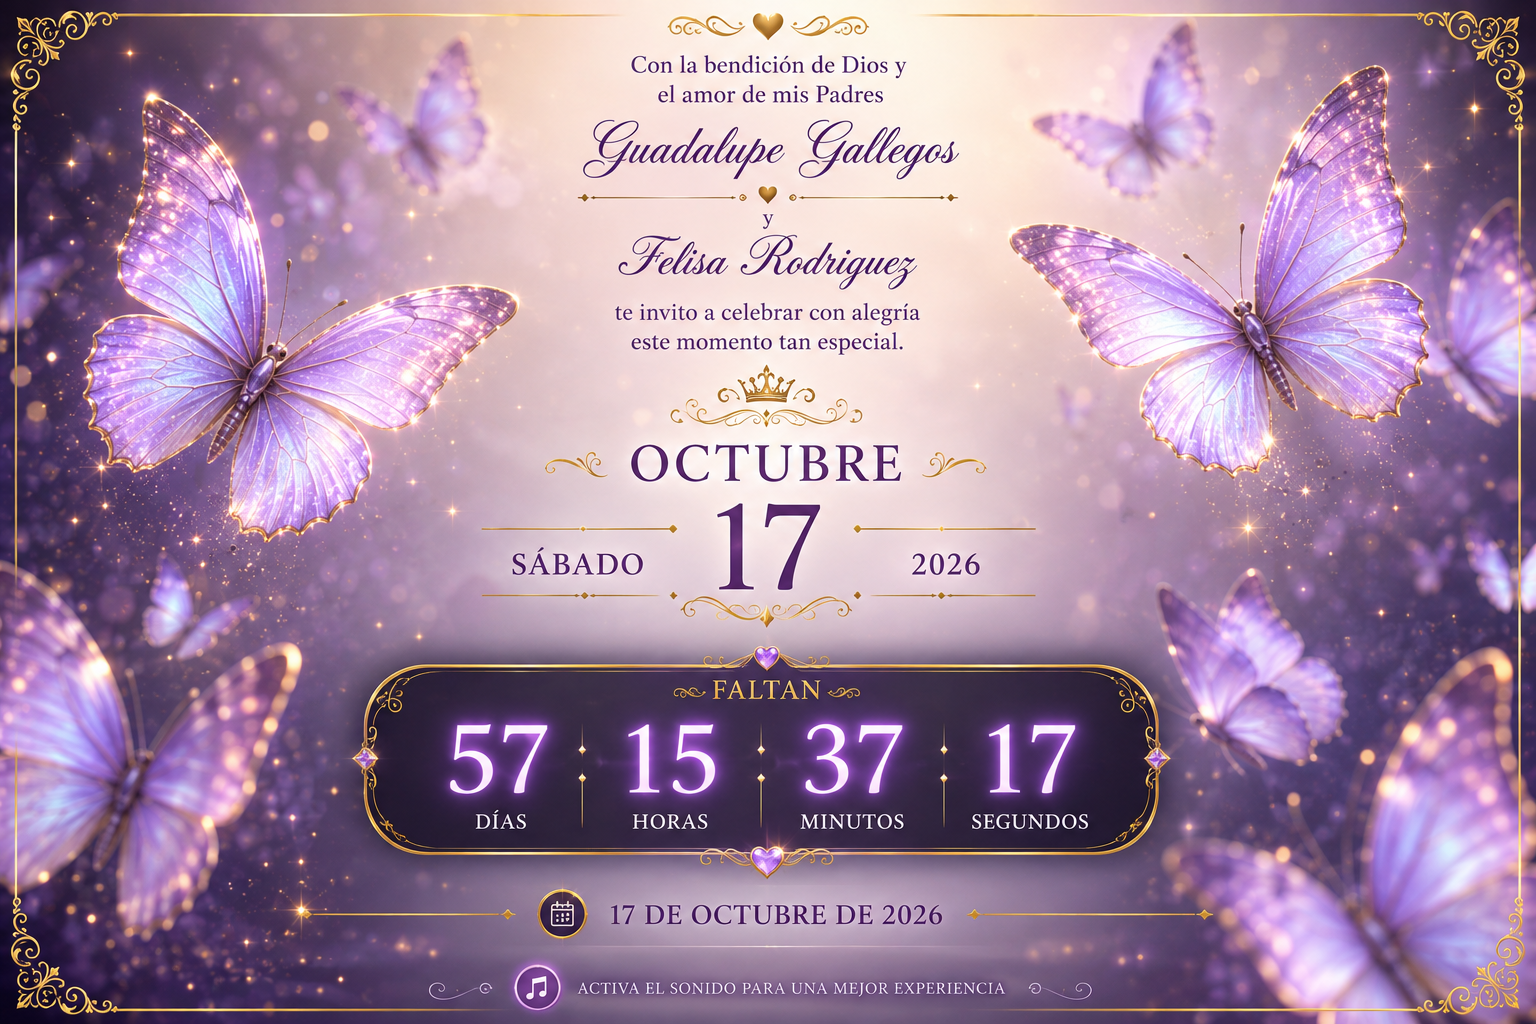
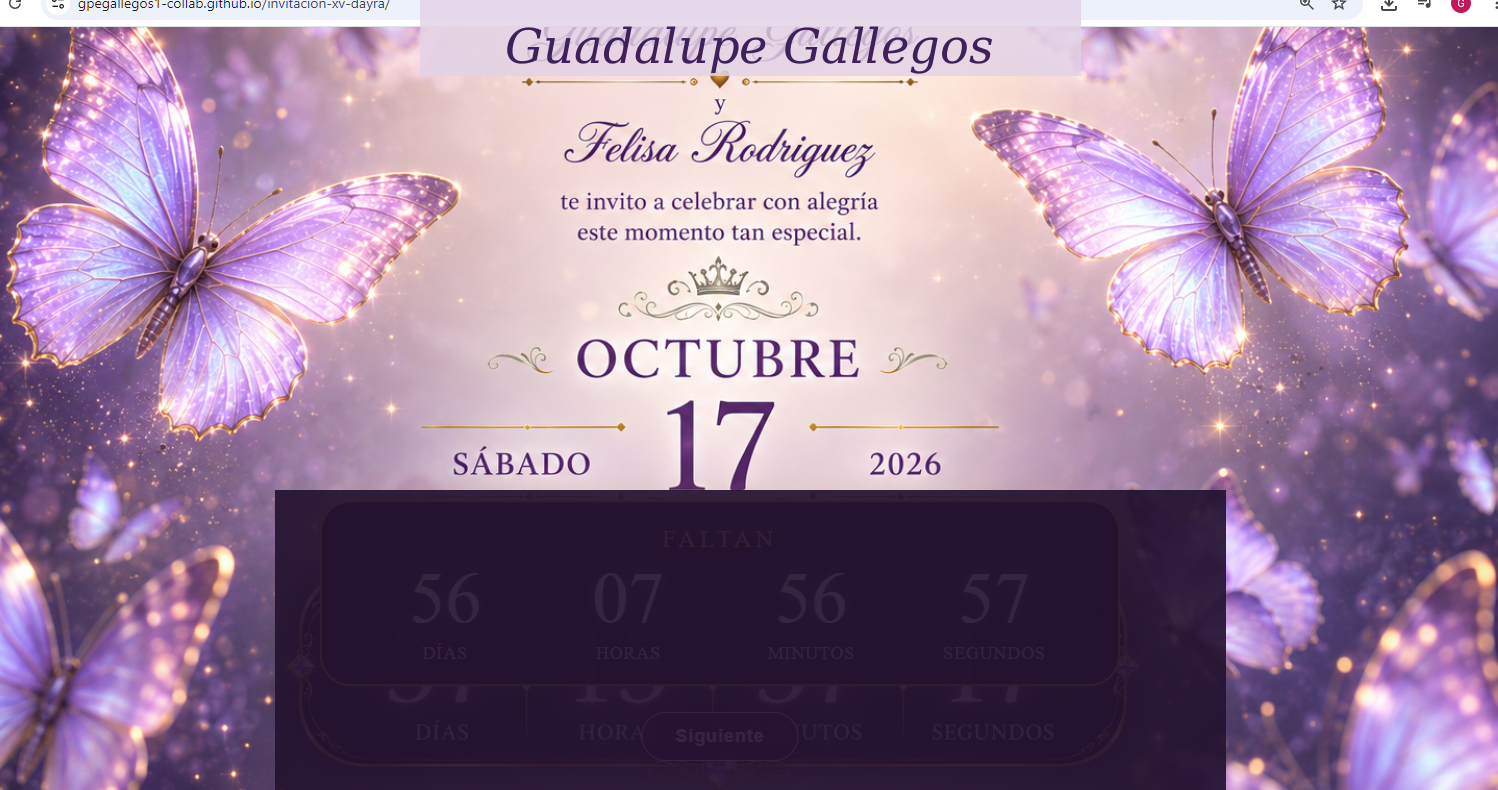
Add files via upload

diff --git a/index.html b/index.html
@@ -30,7 +30,7 @@ transition:transform 1.35s cubic-bezier(.2,.75,.2,1)}
 #slide4{align-items:center;justify-content:center;background:#180d25}
 #slide4 .bg{position:absolute;inset:0;width:100%;height:100%;object-fit:cover;object-position:center}
 .countdown{position:absolute;left:50%;top:74%;transform:translate(-50%,-50%);
-width:min(50vw,760px);min-width:420px;padding:22px 34px 18px;border:2px solid rgba(224,180,75,.9);
+width:min(58vw,820px);min-width:420px;padding:20px 30px 16px;border:2px solid rgba(224,180,75,.9);
 border-radius:28px;background:rgba(31,16,42,.92);box-shadow:0 0 28px rgba(219,167,61,.25);
 text-align:center;color:#fff}
 .label{color:#e8bd61;letter-spacing:4px;font-size:clamp(14px,1.5vw,22px);margin-bottom:8px}
